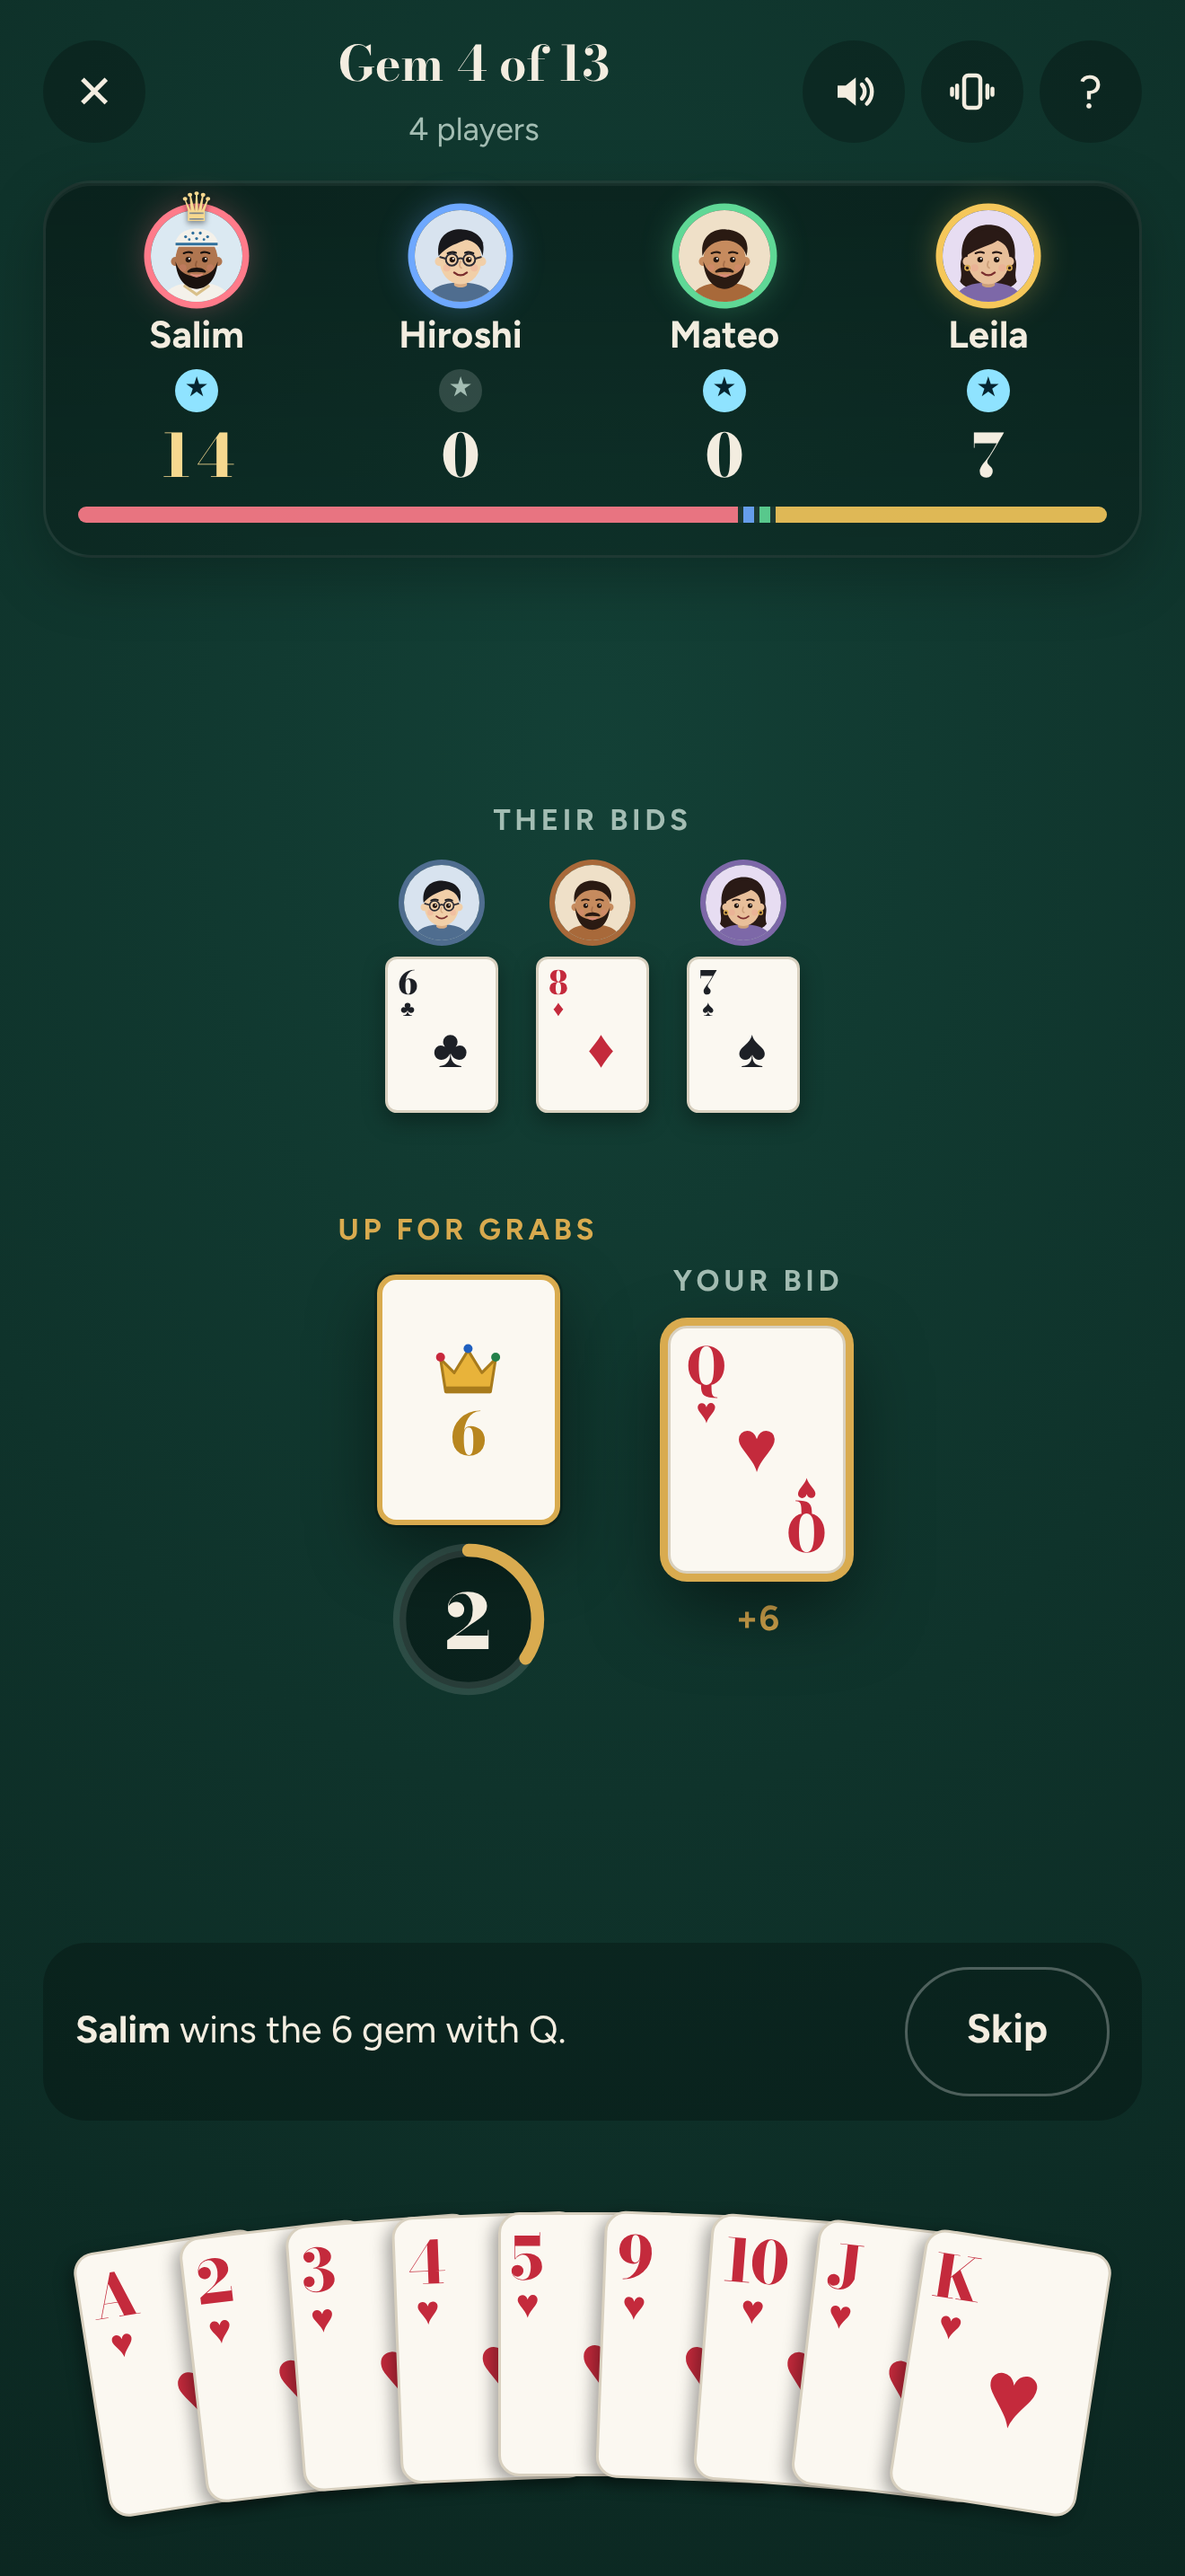
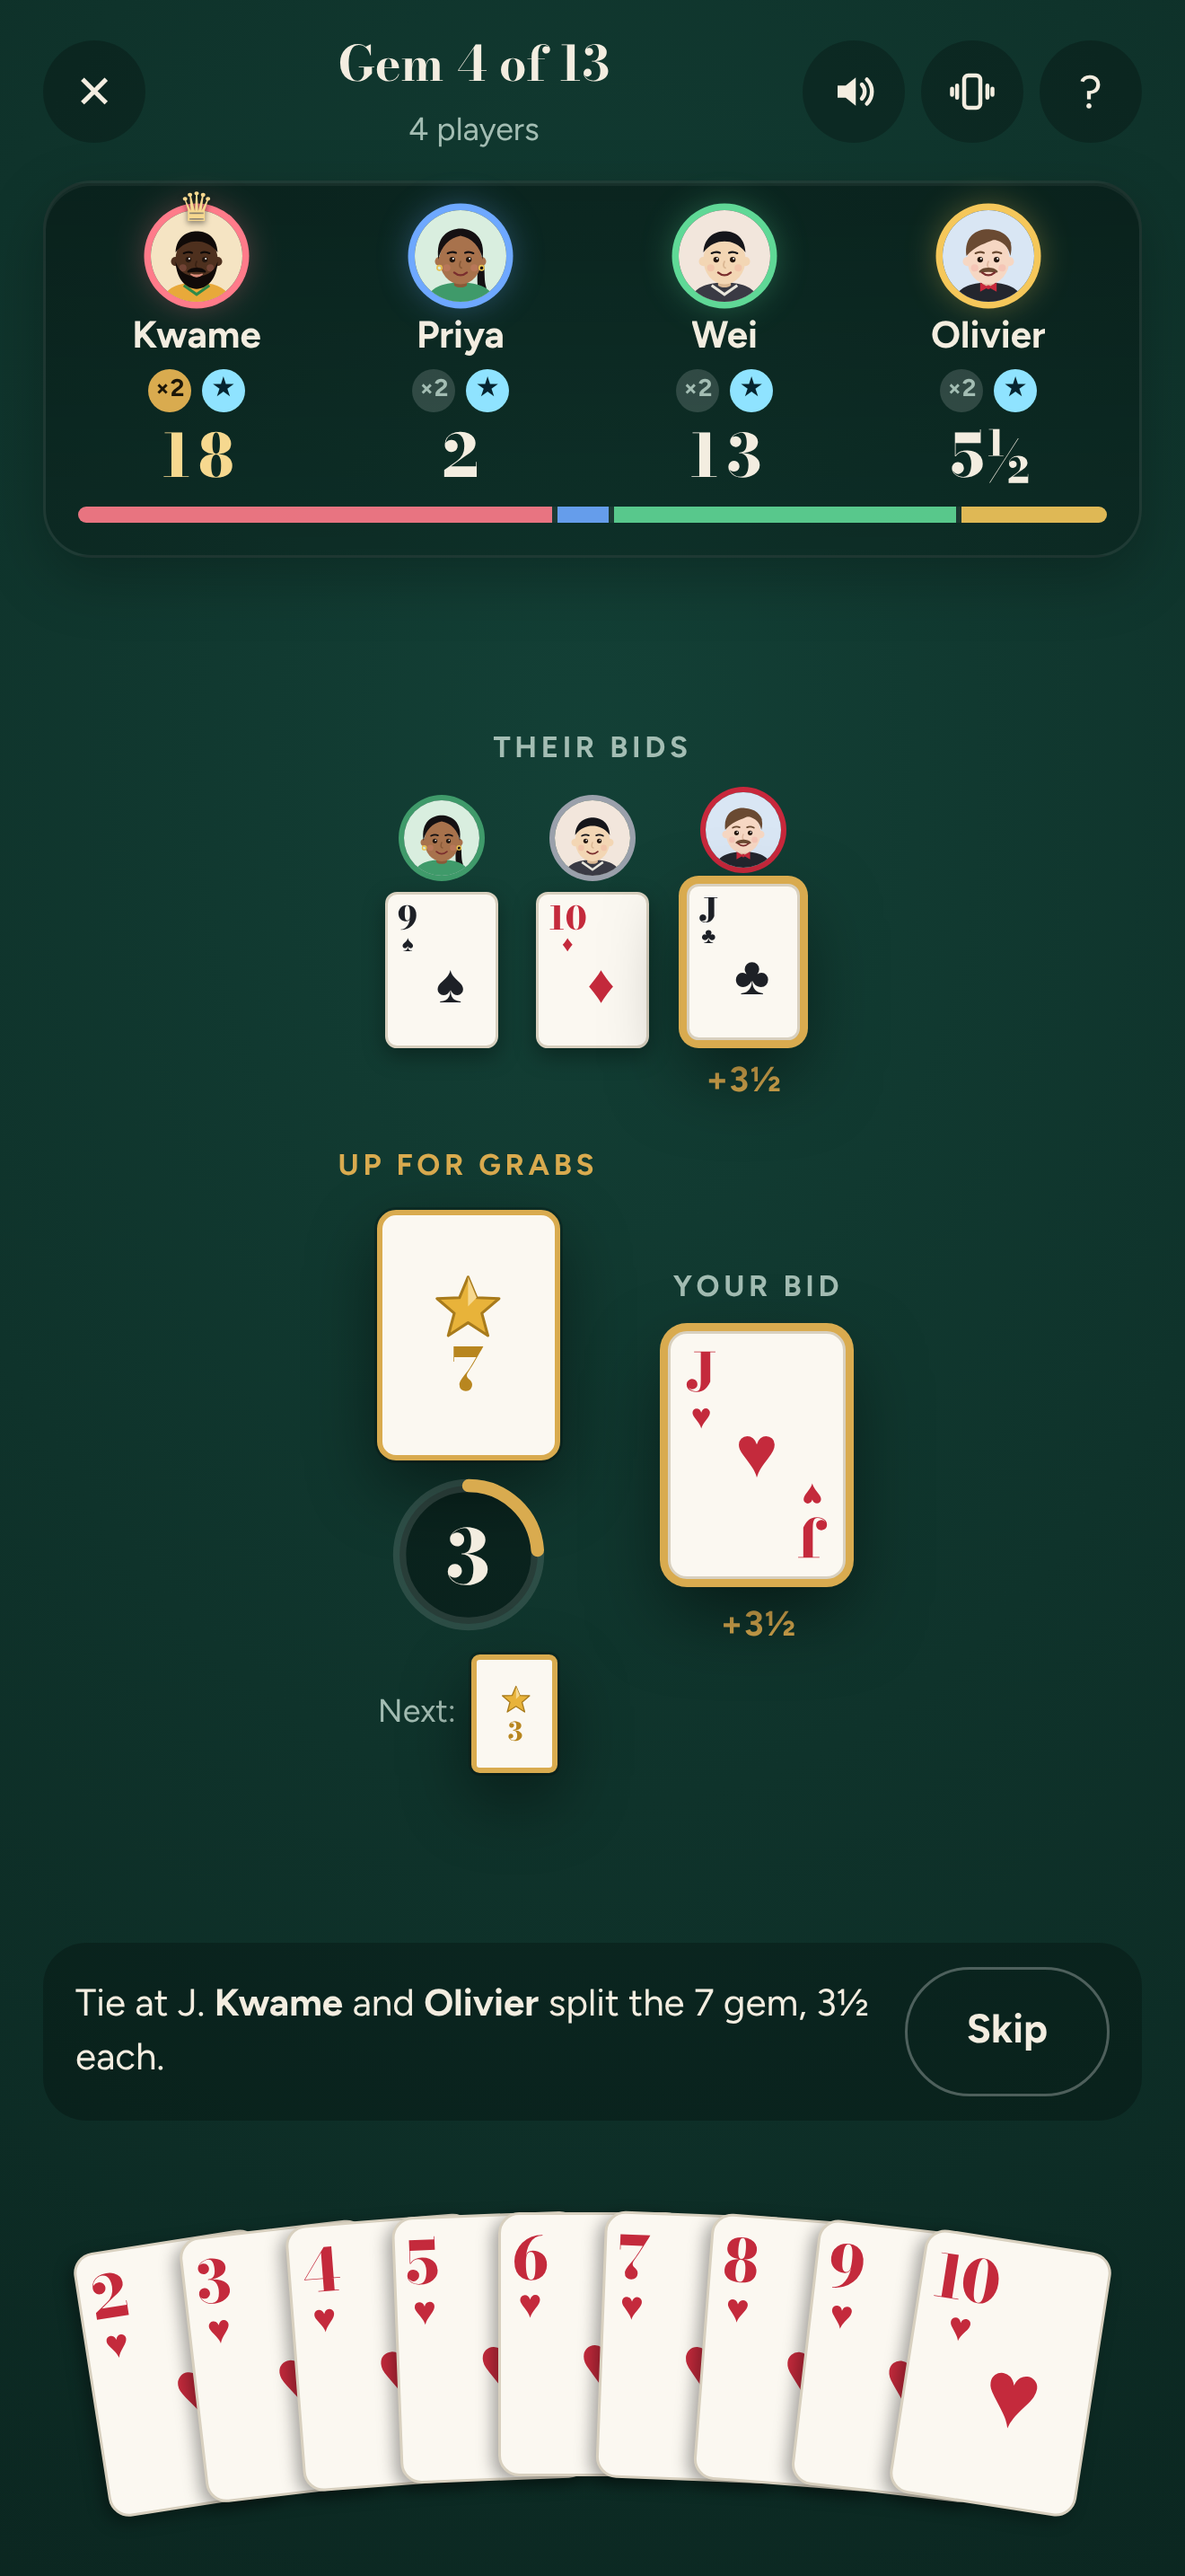
App Store screenshots for the current version, with a script to remake them
Claude-Session: https://claude.ai/code/session_01AG5zc8sNPdd6GuRosweJEg

diff --git a/store/make-screenshots.js b/store/make-screenshots.js
@@ -1,0 +1,106 @@
+// Regenerates the App Store screenshots in store/screenshots (iPhone 1320×2868, iPad 2064×2752) from the standalone web app.
+// Run: node mobile/build-www.js --web-app && node store/make-screenshots.js  (serves docs/play itself; needs global playwright + chromium)
+const path = require("path"), fs = require("fs"), { spawn, execSync } = require("child_process");
+const { chromium } = require(execSync("npm root -g").toString().trim() + "/playwright");
+
+const ROOT = path.join(__dirname, ".."), OUT = path.join(__dirname, "screenshots"), PORT = 8765 + Math.floor(Math.random() * 200);
+const DEVICES = [
+  { prefix: "iphone", viewport: { width: 440, height: 956 }, deviceScaleFactor: 3 },
+  { prefix: "ipad", viewport: { width: 1032, height: 1376 }, deviceScaleFactor: 2 },
+];
+const sleep = ms => new Promise(r => setTimeout(r, ms));
+
+/* A returning player: today's gift already collected, coins saved up, a few characters bought, achievements under way. */
+function seed() {
+  const d = new Date(), key = `${d.getFullYear()}-${String(d.getMonth() + 1).padStart(2, "0")}-${String(d.getDate()).padStart(2, "0")}`;
+  const daysAgo = n => { const x = new Date(); x.setDate(x.getDate() - n); return `${x.getFullYear()}-${String(x.getMonth() + 1).padStart(2, "0")}-${String(x.getDate()).padStart(2, "0")}`; };
+  const t0 = Date.now() - 86400000 * 20;
+  const prefs = {
+    character: "lion", name: "", deck: "classic", table: "green", fourColor: false, sound: true, haptics: true, lang: "en",
+    config: { seatCount: 4, teams: false, tieRule: "split", cursed: false, double: true, gamesToWin: 1, botLevel: "hard", showNext: true, mystery: false, jackpot: true, powers: true, mine4: "h" },
+    localPlayers: 2, passChars: {}, lastKind: "bots",
+  };
+  const ach = {};
+  ["first_gem", "first_win", "steal", "hat_trick", "jackpot", "hard_win", "learner", "ace", "fair_share", "daily", "rematch"].forEach((id, k) => { ach[id] = t0 + k * 3600000; });
+  const stats = {
+    played: 86, won: 49, ach, dailyDays: [1, 2, 3, 4, 5, 6, 8, 9, 11].map(daysAgo), dailyBest: {}, coins: 4860,
+    owned: ["lion", "dragon", "cat", "unicorn", "raccoon", "octopus", "penguin", "sakura", "noir", "ocean", "midnight"],
+    lastGift: key, giftStreak: 9, walletV: 1, tutorialPaid: true,
+    achProg: { giant_slayer: 6, double_trouble: 7, curse_dodger: 4, power_play: 18, wheel: 3, expert_win: 6, full_table: 8, teamwork: 9, online: 5, big_haul: 7, sweep: 2, comeback: 6, nail_biter: 4, polyglot: 0 },
+  };
+  try { if (!localStorage.getItem("diamondbid.seeded")) {
+    localStorage.setItem("diamondbid.prefs", JSON.stringify(prefs));
+    localStorage.setItem("diamondbid.stats", JSON.stringify(stats));
+    localStorage.setItem("diamondbid.seeded", "1");
+  } } catch (e) {}
+}
+
+async function shoot(page, name) {
+  await page.evaluate(() => document.querySelectorAll("#toasts .toast").forEach(el => el.remove()));
+  const file = path.join(OUT, name);
+  await page.screenshot({ path: file });
+  console.log("Wrote", path.relative(ROOT, file));
+}
+
+async function run(browser, dev) {
+  const ctx = await browser.newContext({ viewport: dev.viewport, deviceScaleFactor: dev.deviceScaleFactor, isMobile: true, hasTouch: true, serviceWorkers: "block" });
+  await ctx.addInitScript(seed);
+  const page = await ctx.newPage();
+  page.on("pageerror", e => console.warn("[page error]", e.message));
+  await page.goto(`http://127.0.0.1:${PORT}/index.html`);
+  await sleep(3500); // splash + intro animations
+
+  // 1 Home (Play tab)
+  await shoot(page, `${dev.prefix}-1-home.png`);
+
+  // 5 Customize tab (character picker), 6 Achievements
+  await page.tap('[data-act=tab][data-tab=style]'); await sleep(1200);
+  await shoot(page, `${dev.prefix}-5-characters.png`);
+  await page.tap('[data-act=tab][data-tab=ach]'); await sleep(1200);
+  await shoot(page, `${dev.prefix}-6-achievements.png`);
+
+  // 4 Setup sheet for a game vs bots
+  await page.tap('[data-act=tab][data-tab=play]'); await sleep(800);
+  await page.tap('[data-act=open-setup][data-kind=bots]'); await sleep(1200);
+  await shoot(page, `${dev.prefix}-4-setup.png`);
+
+  // Play a couple of rounds quickly so some gems are taken and the scoreboard has points.
+  await page.tap('[data-act=start]'); await sleep(2500);
+  const playRound = async () => {
+    await page.waitForFunction(() => G && G.s.phase === "bidding" && G.s.submitted.every((x, i) => x || i === 0), null, { timeout: 8000 });
+    await page.evaluate(() => {
+      const hand = G.s.hands[0], prize = prizeNow(G.s);
+      // Go big on big gems and throw away small cards on small ones, so the player has points on the board.
+      G.selected = prize >= 7 ? Math.max(...hand) : Math.min(...hand);
+      placeBid();
+    });
+    await page.waitForFunction(() => G.s.phase === "reveal", null, { timeout: 5000 });
+  };
+  const advance = async () => { await page.evaluate(() => { G.s.ready = G.s.ready.map(() => true); progress(); }); };
+  for (let k = 0; k < 3; k++) { await playRound(); await sleep(400); await advance(); }
+
+  // 2 A round in progress: bots have bid face down, a card picked from the fanned hand.
+  await page.waitForFunction(() => G.s.phase === "bidding" && G.s.submitted.every((x, i) => x || i === 0), null, { timeout: 8000 });
+  await sleep(1500);
+  await page.evaluate(() => { const h = G.s.hands[0]; G.selected = h[Math.floor(h.length / 2) + 2]; render(); });
+  await sleep(900);
+  await shoot(page, `${dev.prefix}-2-play.png`);
+
+  // 3 The reveal: all bids flipped. Timers are stopped so the table stays put while the flip animation finishes.
+  await page.evaluate(() => { G.selected = Math.max(...G.s.hands[0]); placeBid(); }); // play the top card so the player takes the gem
+  await page.waitForFunction(() => G.s.phase === "reveal", null, { timeout: 5000 });
+  await page.evaluate(() => stopTimers());
+  await sleep(2200);
+  await shoot(page, `${dev.prefix}-3-reveal.png`);
+  await ctx.close();
+}
+
+(async () => {
+  if (!fs.existsSync(path.join(ROOT, "docs", "play", "index.html"))) throw new Error("Build first: node mobile/build-www.js --web-app");
+  const server = spawn("timeout", ["300", "python3", "-m", "http.server", String(PORT), "--bind", "127.0.0.1"], { cwd: path.join(ROOT, "docs", "play"), stdio: "ignore" });
+  await sleep(1000);
+  const browser = await chromium.launch();
+  try { for (const dev of DEVICES) await run(browser, dev); }
+  finally { await browser.close(); server.kill(); }
+  execSync(`file ${OUT}/*.png`, { stdio: "inherit" });
+})().catch(e => { console.error(e); process.exit(1); });

diff --git a/store/app-store-listing.md b/store/app-store-listing.md
@@ -70,5 +70,5 @@ The first release of Diamond Bid. Have fun, and tell us what you think!
 
 ## Screenshots needed
 - iPhone 6.9" display (1320 × 2868), 3 to 10 images
-- iPad 13" display (2064 × 2752), 3 to 10 images
-I'll make these from the game: Play screen, a round being played, the reveal, character picker, achievements.
+- iPad 13" display (2064 × 2752), 3 to 10 images (the iPad home screen is left out: it looks empty at that size)
+Ready in store/screenshots (remake them with `node mobile/build-www.js --web-app && node store/make-screenshots.js`): home, a round being played, the reveal, setup, character picker, achievements.
